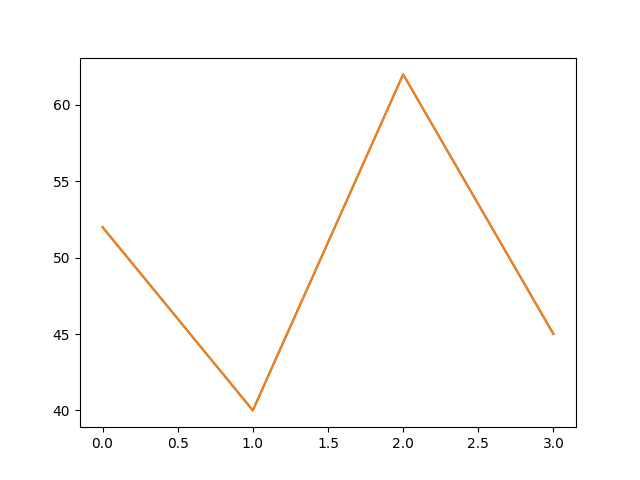
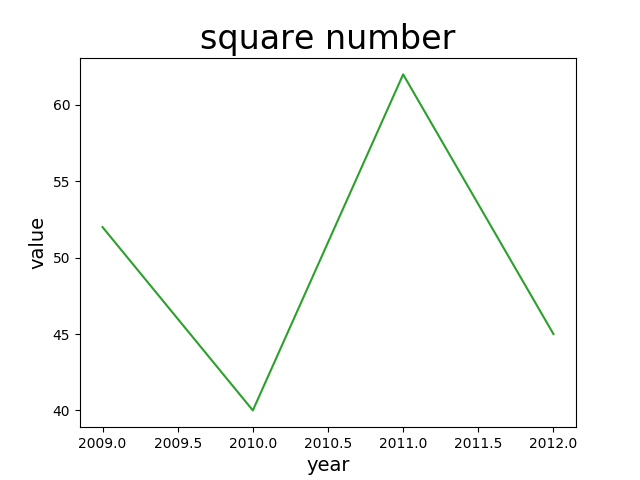
bug:后点的图形会覆盖前面生成的图形内容

diff --git a/reports/views.py b/reports/views.py
@@ -378,14 +378,17 @@ def mat(request, entry_id):
     else:
         counter = len(entry_check_results_list)
         years = 2009
-        names =
-        plt.bar(entry_check_results_list)
+        x_l = []
+        for x in range(counter):
+            x_l.append(years + x)
+        plt.plot(x_l, entry_check_results_list)
         # 设置图表标题，并给坐标轴加上标签
         plt.title('square number', fontsize=24)
         plt.xlabel('year', fontsize=14)
         plt.ylabel('value', fontsize=14)
-        #设置刻度标记的大小
-        plt.tick_params(axis='both', labalsize=14)
+
+        # 设置刻度标记的大小
+        # plt.tick_params(axis='both', labalsize=14)
         plt.savefig('static/images/reports/{id}.png'.format(id=entry_id))
         context = {
             'entry': entry,
